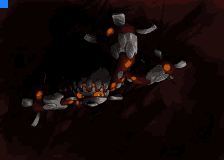
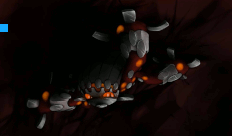
fixed heatran

diff --git a/src/cutscene.c b/src/cutscene.c
@@ -58,7 +58,7 @@ static const u8 sCourtneyBgTiles[] = INCBIN_U8("graphics/cutscene/fscutscene/cou
 static const u8 sCourtneyBgMap[] = INCBIN_U8("graphics/cutscene/fscutscene/courtney/courtney_map.bin");
 static const u8 sCourtneyBgPalette[] = INCBIN_U8("graphics/cutscene/fscutscene/courtney/courtney.gbapal");
 
-static const u8 sHeatranBgTiles[] = INCBIN_U8("graphics/cutscene/fscutscene/heatran/heatran_tiles.4bpp");
+static const u8 sHeatranBgTiles[] = INCBIN_U8("graphics/cutscene/fscutscene/heatran/heatran_tiles.8bpp");
 static const u8 sHeatranBgMap[] = INCBIN_U8("graphics/cutscene/fscutscene/heatran/heatran_map.bin");
 static const u8 sHeatranBgPalette[] = INCBIN_U8("graphics/cutscene/fscutscene/heatran/heatran.gbapal");
 
@@ -200,14 +200,14 @@ static const struct CutsceneBG gCutsceneBgTable[] =
 	},
 	[SCENEBGHEATRAN] = 
 	{
-		.mode = CUTSCENE_4BPP_NO_SCROLL,
+		.mode = CUTSCENE_8BPP_NO_SCROLL,
 		.scrollMode = CUTSCENE_SCROLL_NONE,
         .tiles = sHeatranBgTiles,
 		.tileSize = sizeof(sHeatranBgTiles),
         .map = sHeatranBgMap,
 		.mapSize = sizeof(sHeatranBgMap),
         .palette = sHeatranBgPalette,
-		.palIdxCnt = 16
+		.palIdxCnt = 224
 	},
 };
 
